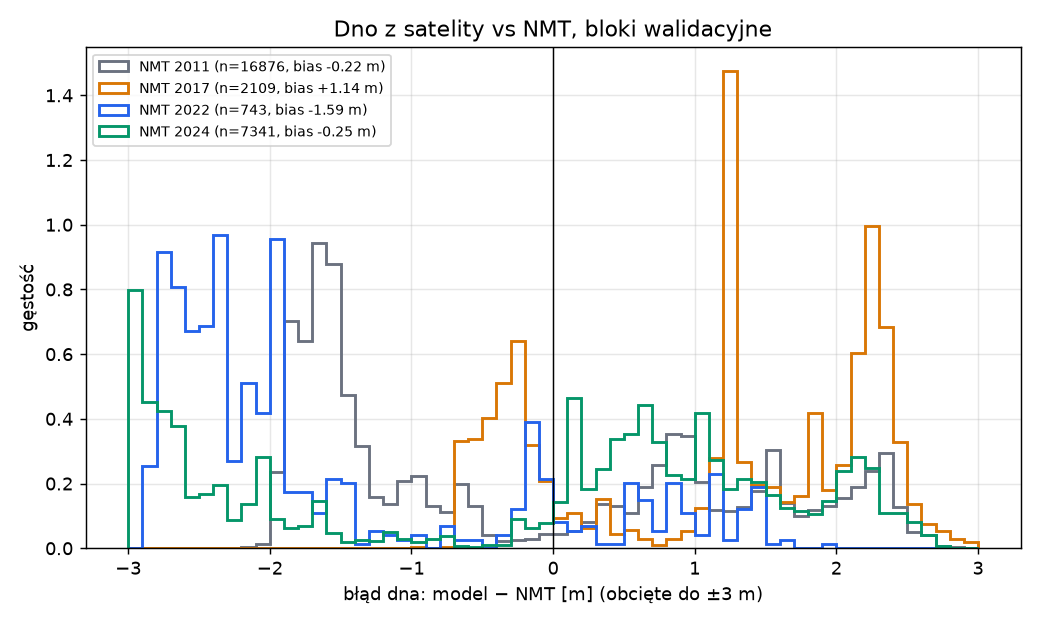
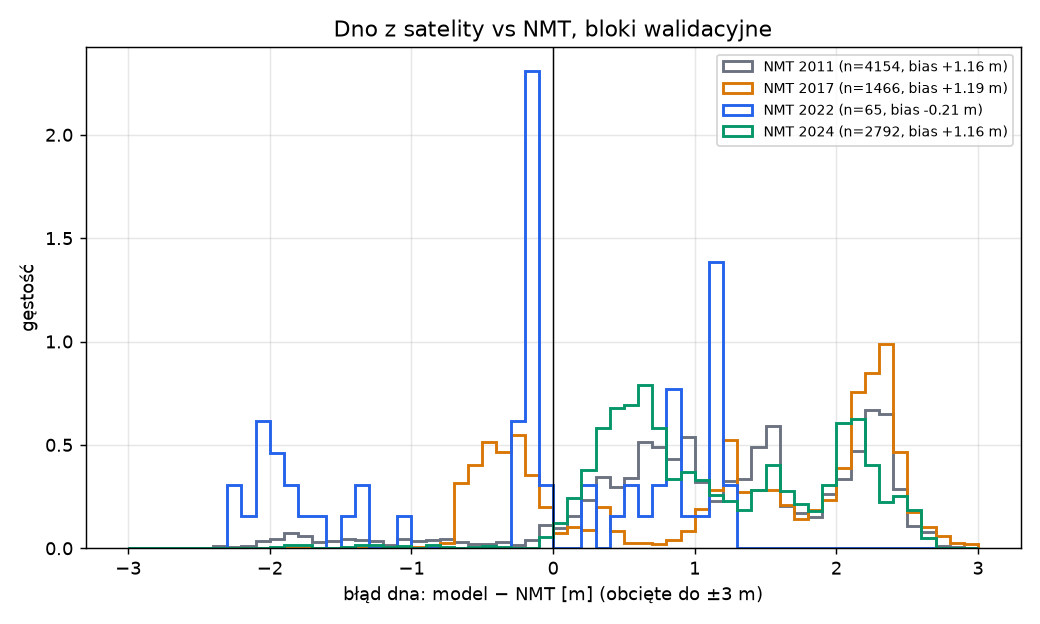
fix(pipeline): evaluation excludes flattened water, common-area change share

diff --git a/JezioroNyskie/pipeline/mielizna/evaluate.py b/JezioroNyskie/pipeline/mielizna/evaluate.py
@@ -16,6 +16,7 @@ import numpy as np
 
 SHARE_THRESHOLD = 0.05        # udział pikseli z istotną zmianą dna, od którego aplikacja przechodzi na post_flood
 WATER_MARGIN = 0.1            # [m] NMT musi leżeć o tyle nad poziomem wody epoki, by uznać piksel za ląd
+MIN_WATER_SHARE = 0.02       # dominanta histogramu arkusza uznawana za płaską wodę, gdy obejmuje >= 2 % komórek
 MIN_COVER = 0.5               # minimalny udział ważnych komórek 1 m w pikselu 10 m
 
 
@@ -41,14 +42,14 @@ def share_in_bounds(ref: np.ndarray, zmin: np.ndarray, zmax: np.ndarray) -> floa
     return float(((ref >= lo) & (ref <= hi)).mean())
 
 
-def bottom_vs_dem(model: dict, dem: np.ndarray, h_water: float, roles: np.ndarray) -> dict:
+def bottom_vs_dem(model: dict, dem: np.ndarray, h_water: float, roles: np.ndarray, exclude=None) -> dict:
     """Dno modelu (`z`) vs NMT na pikselach: blok „valid", NMT > h_water + 0,1 m, model ma `z`.
 
     `dem` jest już na siatce modelu (10 m) i w EVRF2007; `roles` to tablica „calib"/„valid" (blocks.block_role).
-    Zwraca n, mae, rmse, bias (model - NMT) i share_in_bounds (NMT w [z_min, z_max]); `errors` w kluczu pomocniczym
-    nie jest zwracane (zob. `bottom_errors`).
+    `exclude` (opcjonalnie, bool) wyłącza piksele (np. żwirownię). Zwraca n, mae, rmse, bias (model - NMT),
+    share_in_bounds (NMT w [z_min, z_max]), ref_std i corr; same błędy zwraca `bottom_errors`.
     """
-    sel = _select(model, dem, h_water, roles)
+    sel = _select(model, dem, h_water, roles, exclude)
     out = metrics(model["z"][sel], dem[sel])
     out["share_in_bounds"] = share_in_bounds(dem[sel], model["z_min"][sel], model["z_max"][sel])
     # kontekst: rozrzut NMT (RMSE stałej predykcji = ref_std) i korelacja; bez nich RMSE nie mówi, czy model cokolwiek wnosi
@@ -57,29 +58,57 @@ def bottom_vs_dem(model: dict, dem: np.ndarray, h_water: float, roles: np.ndarra
     return out
 
 
-def _select(model, dem, h_water, roles):
-    return (np.asarray(roles) == "valid") & np.isfinite(dem) & (dem > h_water + WATER_MARGIN) & np.isfinite(model["z"])
+def _select(model, dem, h_water, roles, exclude=None):
+    sel = (np.asarray(roles) == "valid") & np.isfinite(dem) & (dem > h_water + WATER_MARGIN) & np.isfinite(model["z"])
+    return sel & ~exclude if exclude is not None else sel
 
 
-def bottom_errors(model: dict, dem: np.ndarray, h_water: float, roles: np.ndarray) -> np.ndarray:
+def bottom_errors(model: dict, dem: np.ndarray, h_water: float, roles: np.ndarray, exclude=None) -> np.ndarray:
     """Błędy (model - NMT) na tych samych pikselach co `bottom_vs_dem` (do histogramu)."""
-    sel = _select(model, dem, h_water, roles)
+    sel = _select(model, dem, h_water, roles, exclude)
     return model["z"][sel] - dem[sel]
 
 
-def dem_to_grid(tiles, grid, offset: float = 0.0, min_cover: float = MIN_COVER) -> np.ndarray:
+def sheet_water_surface(arr: np.ndarray, nodata=None, min_share: float = MIN_WATER_SHARE) -> float:
+    """Powierzchnia wody arkusza NMT: dominanta (zaokrąglenie do 0,01 m) wartości; NaN, gdy dominanta < `min_share` komórek.
+
+    Dlaczego tak: NMT z LiDAR ma jezioro „spłaszczone hydrologicznie" do jednej rzędnej na arkusz (nie zawsze równej poziomowi
+    wody z epochs.csv: różnice do ok. 1 m). Płaska woda to wielka dominanta histogramu; arkusz bez wody (sam ląd) nie ma
+    wyraźnej dominanty, więc zwraca NaN i nic nie jest wycinane.
+    """
+    v = arr[np.isfinite(arr)]
+    if nodata is not None:
+        v = v[v != nodata]
+    if v.size == 0:
+        return float("nan")
+    vals, cnt = np.unique(np.round(v, 2), return_counts=True)
+    return float(vals[cnt.argmax()]) if cnt.max() / v.size >= min_share else float("nan")
+
+
+def dem_to_grid(tiles, grid, offset: float = 0.0, min_cover: float = MIN_COVER, water_margin=None,
+                min_std=None, return_info: bool = False):
     """Uśrednia arkusze NMT 1 m do siatki modelu: średnia ważnych komórek, NaN gdy pokrycie < `min_cover`.
 
-    `tiles`: iterowalne (tablica, Affine, nodata). `offset` [m] dodawany raz do średniej (KRON86 -> EVRF2007).
-    Pokrycie = liczba ważnych komórek / (res/|piksel|)^2; nakładające się arkusze liczą komórki podwójnie, a pokrycie
-    jest obcinane do 1 (średnia pozostaje poprawna, bo oba arkusze opisują to samo miejsce).
+    `tiles`: iterowalne (tablica, Affine, nodata); wszystkie arkusze muszą mieć tę samą rozdzielczość. `offset` [m] dodawany
+    raz do średniej (KRON86 -> EVRF2007). Pokrycie = liczba ważnych komórek / (res/|piksel|)^2, obcięte do 1 (nakładające się
+    arkusze liczą komórki podwójnie; średnia pozostaje poprawna).
+    `water_margin` (np. 0,1): dla każdego arkusza wyznacza `sheet_water_surface` (w układzie natywnym) i traktuje komórki
+    <= woda + margines jako nieważne (woda), więc płaska woda nie jest liczona jako ląd; `min_std` (np. 0,03 m): piksel,
+    którego komórki 1 m mają odchylenie standardowe mniejsze niż próg (płaski), dostaje NaN.
+    `return_info=True` zwraca (średnia, [powierzchnie wody arkuszy]).
     """
     xmin, ymin, xmax, ymax = grid.bounds()
     res = grid.transform.a
     s = np.zeros(grid.height * grid.width)
-    c = np.zeros(grid.height * grid.width)
+    s2 = np.zeros_like(s)
+    c = np.zeros_like(s)
     full = 0.0
+    steps = set()
+    waters = []
     for arr, tr, nd in tiles:
+        steps.add((round(abs(tr.a), 6), round(abs(tr.e), 6)))
+        if len(steps) > 1:
+            raise ValueError(f"arkusze NMT o różnych rozdzielczościach: {sorted(steps)}")
         h, w = arr.shape
         cols, rows = np.meshgrid(np.arange(w), np.arange(h))
         x = tr.c + (cols + 0.5) * tr.a
@@ -89,21 +118,33 @@ def dem_to_grid(tiles, grid, offset: float = 0.0, min_cover: float = MIN_COVER) 
         ok = np.isfinite(arr) & (gc >= 0) & (gc < grid.width) & (gr >= 0) & (gr < grid.height)
         if nd is not None:
             ok &= arr != nd
+        sw = sheet_water_surface(arr, nd) if water_margin is not None else float("nan")
+        waters.append(sw)
+        if np.isfinite(sw):
+            ok &= arr > sw + water_margin
         idx = (gr * grid.width + gc)[ok]
-        s += np.bincount(idx, weights=arr[ok].astype("float64"), minlength=s.size)
+        v = arr[ok].astype("float64")
+        s += np.bincount(idx, weights=v, minlength=s.size)
+        s2 += np.bincount(idx, weights=v * v, minlength=s.size)
         c += np.bincount(idx, minlength=s.size)
         full = (res / abs(tr.a)) * (res / abs(tr.e))
     cover = np.minimum(c / full, 1.0) if full else np.zeros_like(c)
     with np.errstate(invalid="ignore", divide="ignore"):
         mean = s / c
-    out = np.where((c > 0) & (cover >= min_cover), mean + offset, np.nan)
-    return out.reshape(grid.height, grid.width)
+        std = np.sqrt(np.maximum(s2 / c - mean ** 2, 0.0))
+    good = (c > 0) & (cover >= min_cover)
+    if min_std is not None:
+        good &= std >= min_std
+    out = np.where(good, mean + offset, np.nan).reshape(grid.height, grid.width)
+    return (out, waters) if return_info else out
 
 
-def bottom_change(pre: dict, post: dict) -> dict:
+def bottom_change(pre: dict, post: dict, common=None) -> dict:
     """Zmiana dna pre_flood -> post_flood: Δz = z_post - z_pre tam, gdzie oba modele mają `z`.
 
-    share_significant = udział pikseli z |Δz| > unc_pre + unc_post (suma niepewności, zachowawczo liniowo);
+    share_significant = liczba pikseli z |Δz| > unc_pre + unc_post (suma niepewności) / liczba pikseli akwenu wspólnego `common`
+    (bool; obserwowane w obu okresach; brak `common` = tylko piksele z z w obu modelach); `share_significant_overlap` dzieli
+    przez piksele z z w obu modelach (wąski pas przedziałów);
     zwraca też statystyki Δz i histogram (kosze 0,1 m w [-1, 1], skrajne dołączone do końców).
     """
     both = np.isfinite(pre["z"]) & np.isfinite(post["z"])
@@ -115,7 +156,9 @@ def bottom_change(pre: dict, post: dict) -> dict:
     sig = np.abs(dz) > thr
     edges = np.round(np.arange(-1.0, 1.0001, 0.1), 1)
     hist, _ = np.histogram(np.clip(dz, -1.0, 1.0), bins=edges)
-    return {"n": n, "share_significant": float(np.nanmean(sig)), "n_significant": int(np.nansum(sig)),
+    n_common = int(common.sum()) if common is not None else n
+    return {"n": n, "n_common": n_common, "share_significant": float(np.nansum(sig) / n_common),
+            "share_significant_overlap": float(np.nanmean(sig)), "n_significant": int(np.nansum(sig)),
             "mean_dz": float(dz.mean()), "median_dz": float(np.median(dz)), "mean_abs_dz": float(np.abs(dz).mean()),
             "mean_threshold": float(np.nanmean(thr)),
             "hist": {"edges": edges.tolist(), "counts": hist.tolist(), "note": "Δz obcięte do [-1, 1] m"}}
@@ -125,11 +168,11 @@ def choose_model(share_significant: float) -> dict:
     """Okres modelu dla aplikacji: „post_flood" gdy share_significant >= 5 %, inaczej „all" (domyślny)."""
     if share_significant >= SHARE_THRESHOLD:
         period = "post_flood"
-        reason = (f"Istotna zmiana dna po powodzi: {100 * share_significant:.1f} % pikseli wspólnych ma |Δz| większe niż suma "
+        reason = (f"Istotna zmiana dna po powodzi: {100 * share_significant:.1f} % akwenu wspólnego ma |Δz| większe niż suma "
                   f"niepewności (próg {100 * SHARE_THRESHOLD:.0f} %), więc aplikacja używa modelu po powodzi.")
     else:
         period = "all"
-        reason = (f"Brak istotnej zmiany dna po powodzi: {100 * share_significant:.1f} % pikseli wspólnych ma |Δz| większe niż "
+        reason = (f"Brak istotnej zmiany dna po powodzi: {100 * share_significant:.1f} % akwenu wspólnego ma |Δz| większe niż "
                   f"suma niepewności (poniżej progu {100 * SHARE_THRESHOLD:.0f} %), więc aplikacja używa modelu z całego okresu.")
     return {"period": period, "reason": reason, "share_significant": float(share_significant)}
 

diff --git a/JezioroNyskie/pipeline/08_evaluate.py b/JezioroNyskie/pipeline/08_evaluate.py
@@ -37,51 +37,59 @@ IMG = Path(__file__).resolve().parents[1] / "docs" / "img"
 R_WINDOW = ("2025-04-28", "2025-05-12")
 POINT_0912 = ("2024-09-12", 194.70)
 EVRF = "PL-EVRF2007-NH"
-C_PRE = {"2011", "2017", "2022"}          # epoki <= 2022: porównywane także z modelem pre_flood
+MIN_STD = 0.03            # [m] piksel 10 m, którego komórki 1 m mają mniejsze odchylenie, uznajemy za płaski (woda) i pomijamy
+IN_PRE = {"2011", "2017", "2022", "2024"}   # NMT 2024 z 06.09.2024 = PRZED powodzią (połowa września): pre_flood jest modelem właściwym
 
 
 def _dump(path: Path, obj) -> None:
     path.write_text(json.dumps(obj, indent=1, ensure_ascii=False, default=float) + "\n", encoding="utf-8")
 
 
-def load_dem(epoch: int, offset: float, uklad_h: str, grid) -> np.ndarray:
-    """NMT epoki uśredniony do siatki 10 m; poprawka datum raz; kontrola tagu `uklad_h` arkuszy."""
-    tiles = []
+def load_dem(epoch: int, offset: float, uklad_h: str, grid):
+    """NMT epoki uśredniony do siatki 10 m (bez wody arkusza i płaskich pikseli); poprawka datum raz; kontrola `uklad_h`.
+
+    Zwraca (dem, powierzchnie wody arkuszy {nazwa: rzędna natywna lub None})."""
+    tiles, names = [], []
     for p in sorted(data_path("raw", "nmt", str(epoch)).glob("*.tif")):
         with rasterio.open(p) as ds:
             tag = ds.tags().get("uklad_h")
             if tag != uklad_h:
                 raise SystemExit(f"{p.name}: uklad_h={tag!r}, epochs.csv: {uklad_h!r}")
             tiles.append((ds.read(1).astype("float32"), ds.transform, ds.nodata))
+            names.append(p.stem)
     log.info("epoka %s: %d arkuszy, poprawka datum %+.3f m", epoch, len(tiles), offset)
-    return evaluate.dem_to_grid(tiles, grid, offset=offset)
+    dem, waters = evaluate.dem_to_grid(tiles, grid, offset=offset, water_margin=evaluate.WATER_MARGIN,
+                                       min_std=MIN_STD, return_info=True)
+    return dem, {n: (None if not np.isfinite(w) else float(w)) for n, w in zip(names, waters)}
 
 
-def eval_bottom(proc: Path, grid, models: dict):
+def eval_bottom(proc: Path, grid, models: dict, gravel: np.ndarray):
     epochs = pd.read_csv(proc / "lidar" / "epochs.csv")
     ii, jj = np.meshgrid(np.arange(grid.width), np.arange(grid.height))
     x = grid.transform.c + (ii + 0.5) * grid.transform.a
     y = grid.transform.f + (jj + 0.5) * grid.transform.e
     roles = block_role(x, y, grid)
     out = {"method": "z modelu (środek przedziału) vs NMT uśredniony do 10 m; bloki valid; NMT > h_water_evrf + 0,1 m",
-           "min_cover": evaluate.MIN_COVER, "datum_note": "NMT w EVRF2007; model głównie w układzie RZGW (nieznany) - bias zawiera ewentualne przesunięcie RZGW<->EVRF2007",
+           "min_cover": evaluate.MIN_COVER, "min_pixel_std": MIN_STD,
+           "water_filter": "per arkusz: dominanta NMT = płaska woda; komórki <= woda + 0,1 m pomijane; piksele 10 m z std < 0,03 m pomijane; żwirownia wyłączona",
+           "datum_note": "NMT w EVRF2007; model głównie w układzie RZGW (nieznany) - bias zawiera ewentualne przesunięcie RZGW<->EVRF2007",
            "by_epoch": {}}
     pooled = {"err": [], "zmin": [], "zmax": [], "dem": []}
     errs_for_plot = {}
     dems = {}
     for e in epochs.itertuples():
         offset = float(e.datum_offset) if e.uklad_h != EVRF else 0.0
-        dem = load_dem(e.epoch, offset, e.uklad_h, grid)
+        dem, waters = load_dem(e.epoch, offset, e.uklad_h, grid)
         dems[str(e.epoch)] = dem
         row = {"h_water_evrf": float(e.h_water_evrf), "date": e.date, "uklad_h": e.uklad_h,
-               "datum_offset_applied": offset, "dem_px": int(np.isfinite(dem).sum())}
-        row["all"] = evaluate.bottom_vs_dem(models["all"], dem, e.h_water_evrf, roles)
-        if str(e.epoch) in C_PRE:
-            row["pre_flood"] = evaluate.bottom_vs_dem(models["pre_flood"], dem, e.h_water_evrf, roles)
-        if e.epoch == 2024:
-            row["post_flood"] = evaluate.bottom_vs_dem(models["post_flood"], dem, e.h_water_evrf, roles)
+               "datum_offset_applied": offset, "sheet_water_native": waters, "dem_px": int(np.isfinite(dem).sum())}
+        row["all"] = evaluate.bottom_vs_dem(models["all"], dem, e.h_water_evrf, roles, gravel)
+        if str(e.epoch) in IN_PRE:
+            row["pre_flood"] = evaluate.bottom_vs_dem(models["pre_flood"], dem, e.h_water_evrf, roles, gravel)
+        if e.epoch == 2024:      # informacyjnie: NMT sprzed powodzi vs model po powodzi
+            row["post_flood_informational"] = evaluate.bottom_vs_dem(models["post_flood"], dem, e.h_water_evrf, roles, gravel)
         out["by_epoch"][str(e.epoch)] = row
-        errs_for_plot[str(e.epoch)] = evaluate.bottom_errors(models["all"], dem, e.h_water_evrf, roles)
+        errs_for_plot[str(e.epoch)] = evaluate.bottom_errors(models["all"], dem, e.h_water_evrf, roles, gravel)
         log.info("epoka %s all: %s", e.epoch, {k: round(v, 3) for k, v in row["all"].items()})
     # puli wszystkich epok dla modelu all (piksele z różnych epok liczone osobno)
     allerr = np.concatenate(list(errs_for_plot.values()))
@@ -203,7 +211,12 @@ def main() -> int:
     grid = reference_grid()
     models = {p: bottom.read_model(proc / "model" / p)[0] for p in ("all", "pre_flood", "post_flood")}
 
-    res, errs, roles, dems = eval_bottom(proc, grid, models)
+    import geopandas as gpd
+    from rasterio.features import rasterize
+    gpoly = gpd.read_file(data_path("reference", "zwirownia.gpkg")).to_crs(grid.crs).geometry.union_all()
+    gravel = rasterize([(gpoly, 1)], out_shape=(grid.height, grid.width), transform=grid.transform, fill=0,
+                       dtype="uint8").astype(bool)
+    res, errs, roles, dems = eval_bottom(proc, grid, models, gravel)
     _dump(out / "bottom_vs_nmt.json", res)
 
     scenes = pd.DataFrame(json.loads((proc / "scenes.json").read_text(encoding="utf-8")))
@@ -211,13 +224,14 @@ def main() -> int:
     lv, curve = eval_levels(proc, scenes, bulletins)
     _dump(out / "levels.json", lv)
 
-    ch = evaluate.bottom_change(models["pre_flood"], models["post_flood"])
     both = np.isfinite(models["pre_flood"]["z"]) & np.isfinite(models["post_flood"]["z"])
     obs_both = (models["pre_flood"]["obs_count"] > 0) & (models["post_flood"]["obs_count"] > 0) \
         & (models["pre_flood"]["flags"] != 255) & (models["post_flood"]["flags"] != 255)
+    ch = evaluate.bottom_change(models["pre_flood"], models["post_flood"], common=obs_both)
     ch["n_common_observed"] = int(obs_both.sum())
     ch["share_of_common_observed"] = float(both.sum() / max(obs_both.sum(), 1))
-    ch["note"] = "share_significant: udział pikseli, gdzie oba modele mają z i |Δz| > unc_pre + unc_post; Δz = post - pre"
+    ch["note"] = ("share_significant = piksele z |Δz| > unc_pre + unc_post / akwen wspólny (obserwowany w obu okresach, wg ograniczenia "
+                  "projektu); share_significant_overlap = ten sam licznik / piksele z z w obu modelach; Δz = post - pre")
     _dump(out / "bottom_change.json", ch)
     choice = evaluate.choose_model(ch["share_significant"])
     _dump(out / "model_choice.json", choice)

diff --git a/JezioroNyskie/pipeline/tests/test_evaluate.py b/JezioroNyskie/pipeline/tests/test_evaluate.py
@@ -55,6 +55,41 @@ def test_bottom_change_significance():
     post = {"z": np.array([[1.1, 2., 1.]]), "unc": np.array([[.1, .1, .1]])}
     r = evaluate.bottom_change(pre, post)
     assert r["n"] == 2 and r["share_significant"] == 0.5     # 0,1 < 0,2; 1,0 > 0,2; trzeci bez pre
+    r = evaluate.bottom_change(pre, post, common=np.array([[True, True, True]]))
+    assert r["share_significant"] == pytest.approx(1 / 3) and r["share_significant_overlap"] == 0.5
+
+
+def test_bottom_vs_dem_exclude_gravel():
+    roles = np.full((2, 2), "valid")
+    excl = np.array([[False, False], [True, False]])
+    assert evaluate.bottom_vs_dem(_model(), DEM, 190.0, roles, exclude=excl)["n"] == 2
+
+
+def _tile(z):
+    return [(z, Affine(1, 0, 0, 0, -1, 20), -9999.)]
+
+
+def test_dem_to_grid_flat_water_above_epoch_level_excluded():
+    grid = Grid("EPSG:2180", Affine(10, 0, 0, 0, -10, 20), 2, 2)
+    rng = np.random.default_rng(0)
+    z = 200 + rng.normal(0, 0.5, (20, 20)).astype("float32")      # ląd, nierówny
+    z[:, :10] = 195.95                                            # płaska woda (lewa połowa) wyżej niż poziom epoki
+    assert evaluate.sheet_water_surface(z) == pytest.approx(195.95)
+    out = evaluate.dem_to_grid(_tile(z), grid, water_margin=0.1, min_std=0.03)
+    assert np.isnan(out[:, 0]).all() and np.isfinite(out[:, 1]).all()
+    assert evaluate.sheet_water_surface(200 + rng.normal(0, 0.5, (20, 20))) != evaluate.sheet_water_surface(z)
+
+
+def test_dem_to_grid_flat_pixel_excluded_and_resolution_checked():
+    grid = Grid("EPSG:2180", Affine(10, 0, 0, 0, -10, 20), 2, 2)
+    rng = np.random.default_rng(1)
+    z = 200 + rng.normal(0, 0.5, (20, 20)).astype("float32")
+    z[:10, 10:] = 197.0                                           # dwa płaskie piksele (płaski ląd/lustro)
+    z[10:, :10] = 198.0
+    out = evaluate.dem_to_grid(_tile(z), grid, min_std=0.03)       # bez water_margin: tylko filtr płaskości
+    assert np.isnan(out[0, 1]) and np.isnan(out[1, 0]) and np.isfinite(out[0, 0])
+    with pytest.raises(ValueError):
+        evaluate.dem_to_grid(_tile(z) + [(z, Affine(2, 0, 0, 0, -2, 20), -9999.)], grid)
 
 
 def test_dem_to_grid_mean_and_coverage():

diff --git a/JezioroNyskie/docs/nauka/M7-lidar-kz.md b/JezioroNyskie/docs/nauka/M7-lidar-kz.md
@@ -100,11 +100,42 @@ Po ludzku: z rzędnych punktowych i poziomic mapy KŻ budujemy powierzchnię dna
 
 ## 7. Ocena dokładności (`08_evaluate.py` → `data/processed/eval/{bottom_vs_nmt,levels,bottom_change,model_choice,mask}.json`, `docs/img/eval-*.png`)
 
-Metoda: dno modelu (`z`) vs NMT uśredniony do 10 m (średnia komórek 1 m, wymóg ≥ 50 % pokrycia piksela), wyłącznie bloki „valid" (bez przecieku z wariantu A), piksele z NMT > `h_water_evrf` epoki + 0,1 m i z `z` w modelu. NMT KRON86 (2011, 2017) sprowadzony do EVRF2007 (+0,199 m) raz. Poziomy modelu pochodzą głównie z układu RZGW (nieznany), więc bias zawiera też ewentualne przesunięcie RZGW↔EVRF2007; nic nie jest korygowane.
+Metoda: dno modelu (`z`) vs NMT uśredniony do 10 m (średnia komórek 1 m, wymóg ≥ 50 % pokrycia piksela), wyłącznie bloki „valid" (bez przecieku z wariantu A). NMT KRON86 (2011, 2017) sprowadzony do EVRF2007 (+0,199 m) raz. Poziomy modelu pochodzą głównie z układu RZGW (nieznany), więc bias zawiera też ewentualne przesunięcie RZGW↔EVRF2007; nic nie jest korygowane.
 
-- **Dno vs NMT: model jest słaby.** Model `all`: MAE 1,41 / 1,34 / 1,88 / 1,59 m (epoki 2011 / 2017 / 2022 / 2024; n = 16 876 / 2 109 / 743 / 7 341), RMSE 1,52 / 1,57 / 2,05 / 1,85 m, bias −0,22 / +1,14 / −1,59 / −0,25 m, NMT w [z_min, z_max] tylko 2,2 / 7,5 / 6,2 / 9,4 %. Rozrzut samego NMT na tych pikselach to 0,05–0,48 m (stała predykcja dałaby RMSE rzędu 0,4 m), więc `all` nie wnosi tu nic ponad średnią (korelacja 0,50 / 0,86 / 0,05 / −0,06). Zbiór porównania to wąski pas brzegowy nad poziomem wody epoki (piksele 10 m mieszane woda/ląd), a model ma tam przedziały [z_min, z_max] o medianie szerokości ok. 0,4 m i rozkład dwumodalny (193,6 i 197 m), czyli klasyfikacja pasa brzegowego rozstrzyga o wyniku.
-- **Okresy dopasowane do epoki są lepsze:** `pre_flood` vs NMT 2017: MAE 0,58, RMSE 0,76, bias +0,20 m, korelacja 0,72, w granicach 26,7 % (n = 898). `pre_flood` vs 2011: RMSE 1,41, bias −1,03 m (epoka sprzed serii S-2, część różnicy to realne zmiany dna i żwirownia); vs 2022: RMSE 2,14 (n = 634, rozrzut NMT 0,05 m: pas przy wysokiej wodzie 195,69 m). `post_flood` vs 2024: RMSE 1,38, bias +0,70 m, w granicach 17,5 % (n = 5 092). Model `all` miesza obserwacje sprzed i po powodzi, stąd bias +1,14 m dla 2017.
-- **Poziomy wody:** A vs B (n = 92 dni z obiema wartościami): MAE 0,47, RMSE 0,58, bias −0,08 m (A − B); wg epoki LiDAR: 2017 −0,35, 2022 −0,33, 2024 +0,59 m (mieszanka układu EVRF2007 vs RZGW i błędu metod; niekorygowane). Punkt kontrolny R 2025 (197,92 m, 28.04 i 01.05): B −0,13 m (n = 2), C −0,61 m (krzywa refitowana bez R, sigma LOYO 0,48 m), A brak (brak epoki LiDAR). Punkt 12.09.2024 (194,70 m; brak sceny tego dnia, porównanie ze scenami 03 i 06.09): B −0,07 / −0,09, A −0,30 / −0,29, C +0,59 / +0,47 m. `h_sigma` mediana: A 0,22 (0,04–0,30), B 0,15, C 0,49, R 0,08 m; próg M3 (A < 0,3 m) spełniony.
-- **Zmiana dna po powodzi:** pre_flood vs post_flood na 8 438 pikselach wspólnych (3,4 % wspólnego obszaru obserwowanego): |Δz| > unc_pre + unc_post dla 44,4 %, mediana Δz −0,13 m. Próg 5 % przekroczony, więc `model_choice.json` = `post_flood`. Zastrzeżenie: oba modele widzą różne zakresy poziomów (pre 192,9–196,8 m, post 193,8–197,9 m), więc część Δz to różnica pokrycia poziomów, a nie realna zmiana dna; decyzja jest mechaniczna wg progu ze specyfikacji i dotyczy wąskiego pasa przedziałów (mapa `eval-zmiana-dna-mapa.png`).
+**Woda w NMT (poprawka po przeglądzie).** Arkusze NMT niosą jezioro jako płaską powierzchnię o rzędnej różnej dla arkusza i często innej niż poziom wody epoki z `epochs.csv` (np. 2024: dwa arkusze płasko na 195,95 m przy 194,89 m epoki). Jeden `h_water` na epokę zaliczał więc wodę jako ląd (37–86 % ocenianych pikseli). Teraz: dla każdego arkusza powierzchnia wody = dominanta histogramu NMT (zaokrąglenie 0,01 m; uznana, gdy ≥ 2 % komórek), komórki ≤ woda + 0,1 m pomijane, piksele 10 m o odchyleniu komórek 1 m < 0,03 m (płaskie) pomijane, żwirownia (`zwirownia.gpkg`) wyłączona; dodatkowo piksel > `h_water_evrf` epoki + 0,1 m. Powierzchnie wody arkuszy (diagnostyka):
+
+| Epoka | arkusz | powierzchnia wody (rzędna natywna, m) |
+|---|---|---|
+| 2011 | M-33-59-C-b-2-3 | brak dominanty (ląd) |
+| 2011 | M-33-59-C-b-2-4 | brak dominanty (ląd) |
+| 2011 | M-33-59-C-b-4-1 | brak dominanty (ląd) |
+| 2011 | M-33-59-C-b-4-2 | 194.69 |
+| 2011 | M-33-59-C-b-4-4 | brak dominanty (ląd) |
+| 2011 | M-33-59-D-a-1-3 | 194.44 |
+| 2011 | M-33-59-D-a-1-4 | 194.52 |
+| 2011 | M-33-59-D-a-3-1 | 194.43 |
+| 2011 | M-33-59-D-a-3-2 | 194.65 |
+| 2011 | M-33-59-D-a-3-3 | brak dominanty (ląd) |
+| 2017 | M-33-59-D-a-1-4 | 193.38 |
+| 2017 | M-33-59-D-a-3-2 | 193.39 |
+| 2022 | M-33-59-D-a-1-4 | 195.66 |
+| 2022 | M-33-59-D-a-3-2 | 195.72 |
+| 2024 | M-33-59-C-b-2-3 | brak dominanty (ląd) |
+| 2024 | M-33-59-C-b-2-4 | brak dominanty (ląd) |
+| 2024 | M-33-59-C-b-4-1 | brak dominanty (ląd) |
+| 2024 | M-33-59-C-b-4-2 | 194.89 |
+| 2024 | M-33-59-C-b-4-4 | brak dominanty (ląd) |
+| 2024 | M-33-59-D-a-1-3 | 194.88 |
+| 2024 | M-33-59-D-a-1-4 | 195.95 |
+| 2024 | M-33-59-D-a-3-1 | 194.89 |
+| 2024 | M-33-59-D-a-3-2 | 195.96 |
+| 2024 | M-33-59-D-a-3-3 | brak dominanty (ląd) |
+
+- **Dno vs NMT: model `all` ma stałe obciążenie ok. +1,2 m (model wyżej niż NMT).** MAE 1,35 / 1,40 / 0,92 / 1,20 m, RMSE 1,53 / 1,64 / 1,15 / 1,41 m, bias +1,16 / +1,19 / −0,21 / +1,16 m (epoki 2011 / 2017 / 2022 / 2024; n = 4 154 / 1 466 / 65 / 2 792); NMT w [z_min, z_max] tylko 5,8 / 7,1 / 4,6 / 7,1 %. Razem 8 477 pikseli: bias +1,16, RMSE 1,51 m. Rozrzut NMT na ocenianych pikselach to 0,11–0,69 m, korelacja 0,31 / 0,86 / −0,18 / 0,21. Przedziały są więc przeufne (w granicach 5–7 % zamiast oczekiwanych kilkudziesięciu).
+- **`pre_flood` jest modelem właściwym dla wszystkich epok, bo NMT 2024 pochodzi z 06.09.2024, czyli sprzed powodzi z połowy września:** vs 2017: MAE 0,64, RMSE 0,82, bias +0,30 m, korelacja 0,76, w granicach 25 % (n = 700); vs 2011: RMSE 1,08, bias +0,14 (n = 834; epoka sprzed serii S-2, część różnic to realne zmiany dna); vs 2022: RMSE 1,05, bias −0,67 (n = 43, rozrzut NMT 0,09 m); vs 2024: RMSE 0,86, bias +0,31 (n = 204). `post_flood` vs 2024 jest tylko informacyjne (NMT sprzed powodzi vs model po): RMSE 1,46, bias +1,29 m.
+- **Otwarte ustalenie (bez poprawki modelu):** resztkowe +1,2 m dla `all`. Hipotezy: maska lądu w zarośniętych i zalewanych marginesach brzegu (piksele 10 m mieszane woda/ląd/roślinność), a także różnica „osiągalności" wody vs wysokość terenu (woda dochodzi do piksela przy poziomie wyższym niż jego wysokość NMT). Do zbadania osobno.
+- **Poziomy wody:** A vs B (n = 92 dni z obiema wartościami): MAE 0,47, RMSE 0,58, bias −0,08 m (A − B); wg epoki LiDAR: 2017 −0,35, 2022 −0,33, 2024 +0,59 m (mieszanka układu EVRF2007 vs RZGW i błędu metod; niekorygowane). Punkt kontrolny R 2025 (197,92 m, 28.04 i 01.05): B −0,13 m (n = 2), C −0,61 m (krzywa refitowana bez R, sigma LOYO 0,48 m), A brak. Punkt 12.09.2024 (194,70 m; brak sceny tego dnia, sceny 03 i 06.09): B −0,07 / −0,09, A −0,30 / −0,29, C +0,59 / +0,47 m. `h_sigma` mediana: A 0,22 (0,04–0,30), B 0,15, C 0,49, R 0,08 m; próg M3 (A < 0,3 m) spełniony.
+- **Ustalenie (bez poprawki):** w dniu własnego nalotu, 2024-09-06, wariant A daje 194,41 m, a powierzchnia wody w NMT/LiDAR tego dnia to 194,88–194,89 m na większości arkuszy, czyli A jest ok. 0,48 m za niski w dniu własnego nalotu.
+- **Zmiana dna po powodzi:** pre_flood vs post_flood: oba modele mają `z` na 8 438 pikselach (3,4 % akwenu wspólnego, 250 292 px obserwowanych w obu okresach); |Δz| > unc_pre + unc_post dla 3 743 px = **1,5 % akwenu wspólnego** (wg ograniczenia projektu; poniżej progu 5 %), więc `model_choice.json` = **`all`**. Dla porównania udział liczony względem pikseli z `z` w obu modelach (`share_significant_overlap`) to 44,4 %, ale to wąski pas przedziałów, a część Δz to różne zakresy poziomów obu okresów (pre 192,9–196,8 m, post 193,8–197,9 m), nie realna zmiana dna. Kryterium |Δz| > suma niepewności jest słabym dowodem, bo przedziały są przeufne (w granicach 5–7 %).
 - **Maski** (`mask.json`, z `rf_metrics.json`, wg scen): RF OA 0,924, kappa 0,837, F1 wody 0,939, BA 0,923; RF z progiem 0,7 OA 0,890; Otsu OA 0,853; SCL OA 0,864.
 - `make evaluate` zależy tylko od kodu oceny (wejścia mają reguły o nieaktualnych datach: `make -n` z nimi uruchamiał 01/04b/04 przed 08); po zmianie modelu: `rm data/processed/eval/model_choice.json && make evaluate`.
